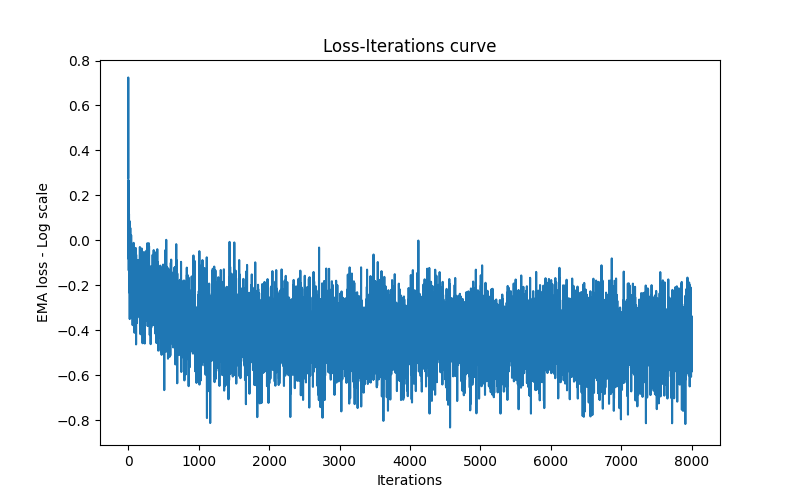
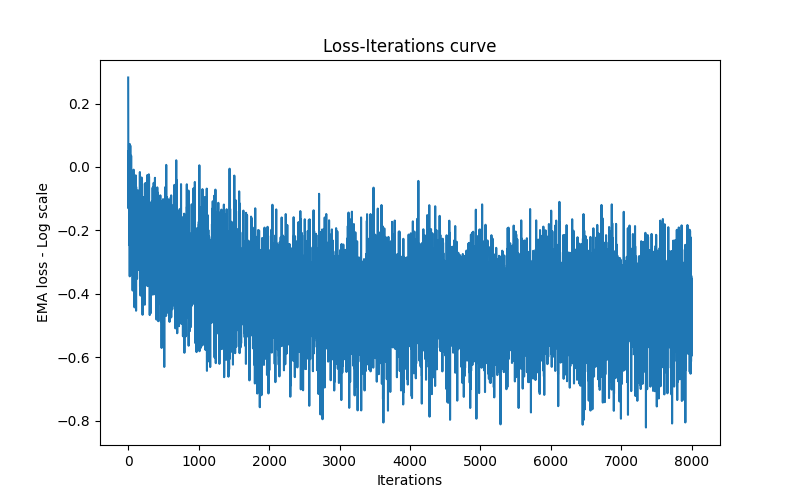
Testing with non-Learnable parameters for LayerNorm layer in the DiscreteTimeBlock.Results are good , but visually can be somehow noisy

diff --git a/diffusion/ddpm/models.py b/diffusion/ddpm/models.py
@@ -80,7 +80,11 @@ class DiscreteTimeBlock(nn.Module):
         self.with_time_emb = with_time_emb
         lin1 = nn.Linear(model_dim, model_dim)
         lin2 = nn.Linear(model_dim, model_dim)
-        self.norm = nn.LayerNorm(model_dim) if normalize_output else nn.Identity()
+        # We can set the elementwise_affine bool param to true or false to control whether the LayerNorm has learnable
+        # Parameters
+        # See doc.
+        # https://pytorch.org/docs/stable/generated/torch.nn.LayerNorm.html
+        self.norm = nn.LayerNorm(model_dim, elementwise_affine=False) if normalize_output else nn.Identity()
         self.normalize_output = normalize_output
         # What is GELU activation function
         # 1. https://paperswithcode.com/method/gelu
@@ -146,7 +150,8 @@ class BasicDiscreteTimeModel(nn.Module):
 
         # FIXME a piece of code to double-check if time-embedding model has any trainable parameters
         assert (len(list(
-            self.time_embed_model.parameters())) == 0), "The time-embedding model is assumed to have no-trainable parameters"
+            self.time_embed_model.parameters())) == 0), \
+            "The time-embedding model is assumed to have no-trainable parameters"
 
     def forward(self, x, t):
         time_embedding = self.time_embed_model(t)
